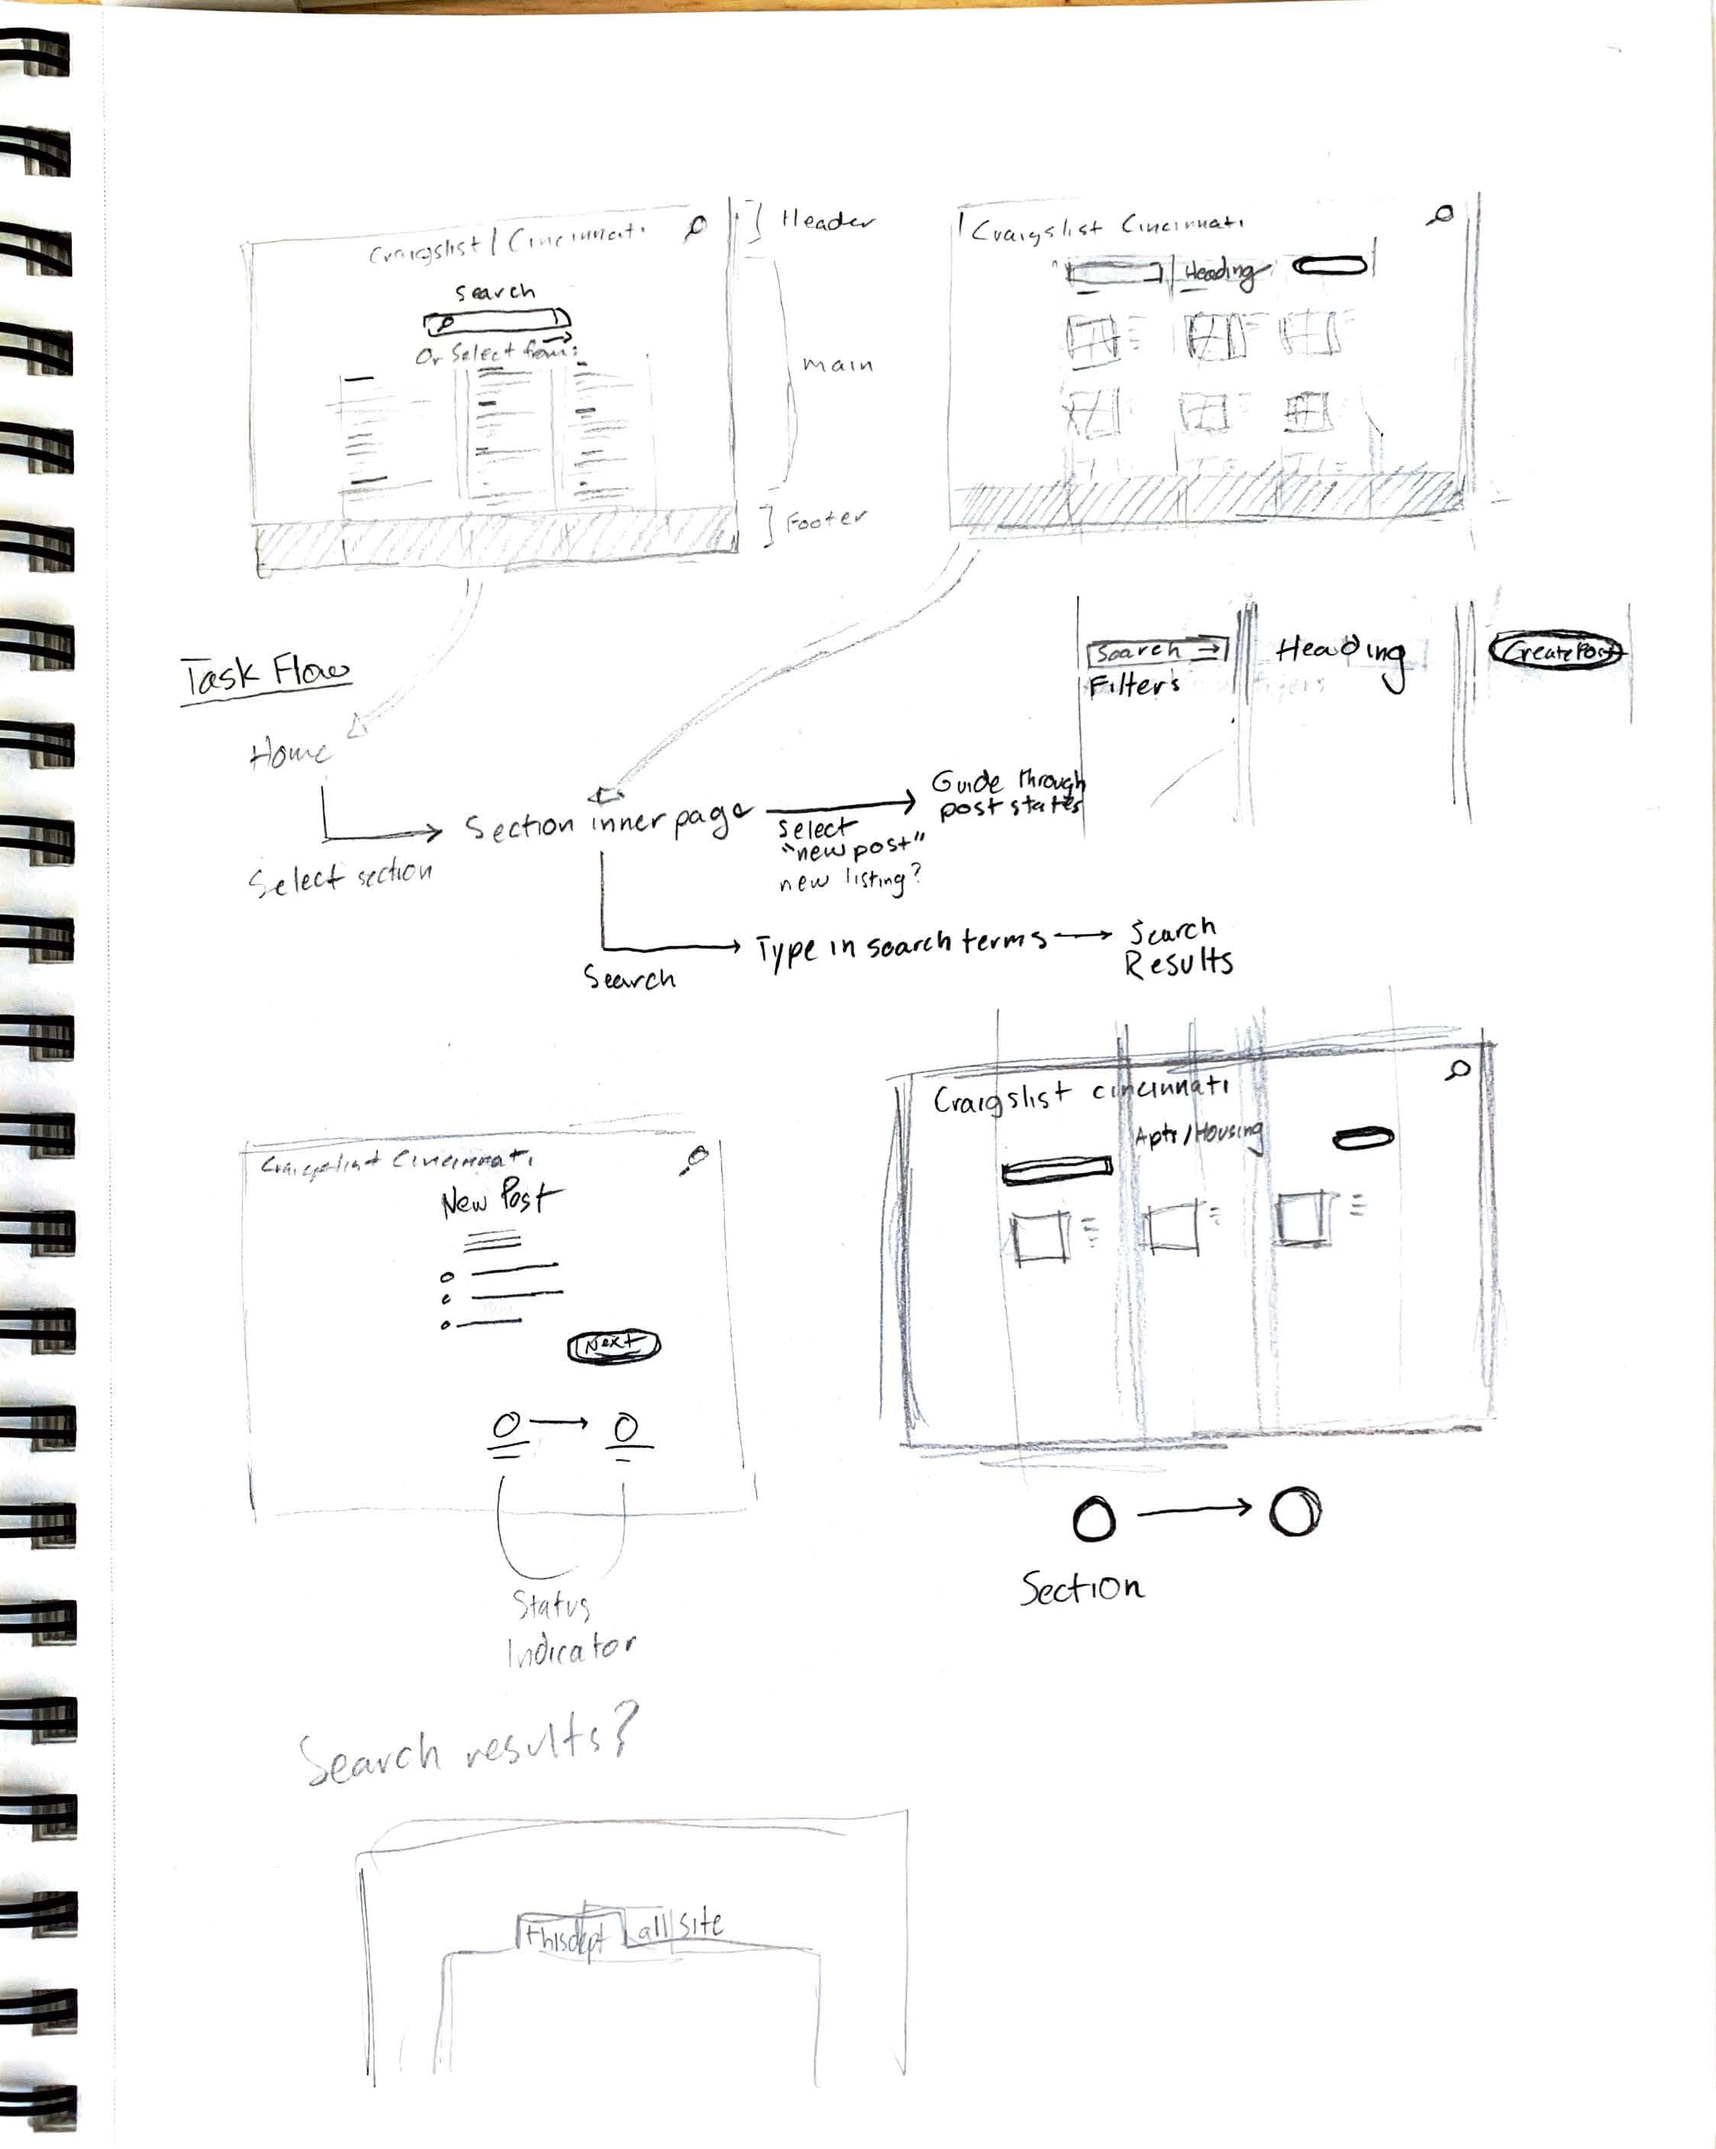
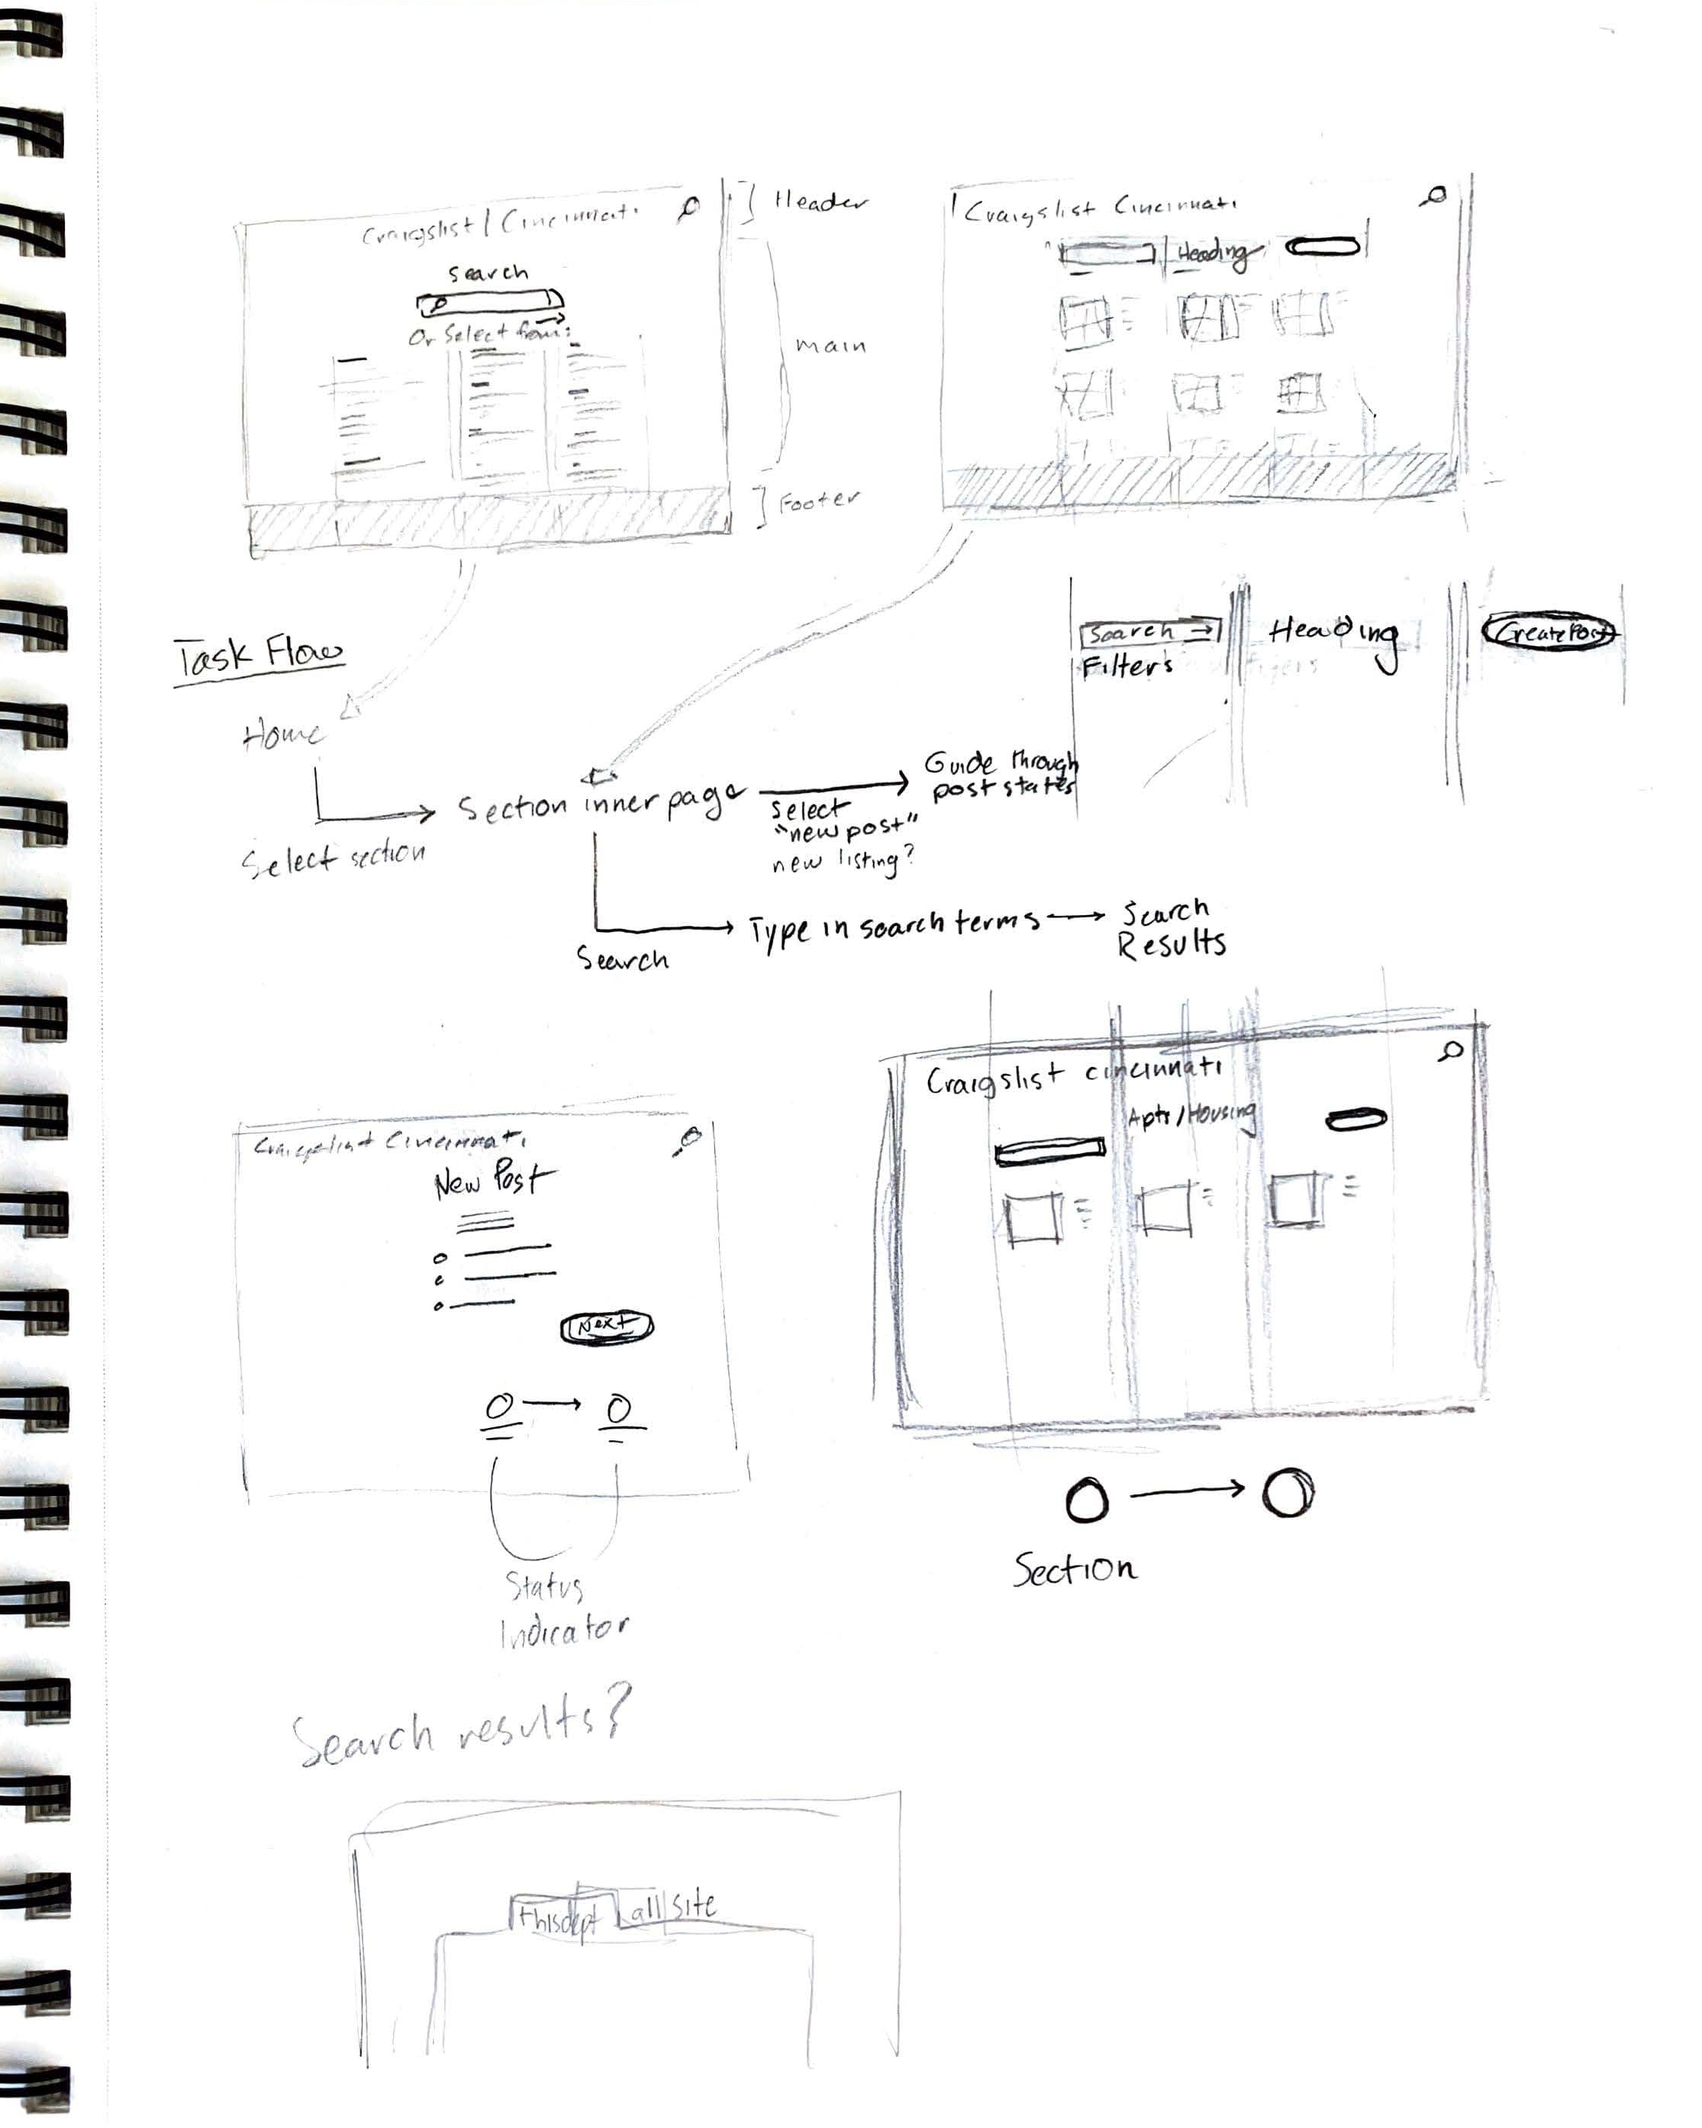
Craigslist Update

diff --git a/clist.html b/clist.html
@@ -91,29 +91,49 @@
 							<p></p>
 						</div>
 					</div>
-					<div class="row">
-						<div class="col-12">
-							<a href="resource/images/clist/process/process.png" data-lightbox="data" data-title="Process from original Craigslist site">
-								<img src="resource/images/clist/process/process.png" alt="a transformation from the original site to final">
+					<div class="row justify-content-center">
+						<div class="col-sm-6">
+							<a href="resource/images/clist/process/doc.jpg" data-lightbox="data" data-title="Task Flow Analysis for the initial site">
+								<img src="resource/images/clist/process/doc.jpg" alt="Initial sketches for the site 1" class="wi">
 							</a>
-							<hr class="mt-5">
+						</div>
+						<div class="col-sm-6">
+							<a href="resource/images/clist/process/doc2.jpg" data-lightbox="data" data-title="Task Flow Analysis for the initial site">
+								<img src="resource/images/clist/process/doc2.jpg" alt="Initial sketches for the site 2" class="wi">
+							</a>
+						</div>
+						<div class="col-sm-3 col-6">
+							<a href="resource/images/clist/process/sketches_Page_1.jpg" data-lightbox="data" data-title="Initial sketches for the site">
+								<img src="resource/images/clist/process/sketches_Page_1.jpg" alt="Initial sketches for the site 1" class="wi">
+							</a>
+						</div>
+						<div class="col-sm-3 col-6">
+							<a href="resource/images/clist/process/sketches_Page_2.jpg" data-lightbox="data" data-title="Initial sketches for the site">
+								<img src="resource/images/clist/process/sketches_Page_2.jpg" alt="Initial sketches for the site 2" class="wi">
+							</a>
+						</div>
+						<div class="col-12">
+							<a href="resource/images/clist/process/process.jpg" data-lightbox="data" data-title="Process from original Craigslist site">
+								<img src="resource/images/clist/process/process.jpg" alt="a transformation from the original site to final">
+							</a>
+							
 						</div>
 						
 						<div class="col-12">
-							<a href="resource/images/clist/process/process2.png" data-lightbox="data" data-title="Process from original Craigslist site">
-								<img src="resource/images/clist/process/process2.png" alt="a transformation from the original site to final">
+							<a href="resource/images/clist/process/process2.jpg" data-lightbox="data" data-title="Process from original Craigslist site">
+								<img src="resource/images/clist/process/process2.jpg" alt="a transformation from the original site to final">
 							</a>
-							<hr class="mt-5">
+							
 						</div>
 						<div class="col-12">
-							<a href="resource/images/clist/process/process3.png" data-lightbox="data" data-title="Process from original Craigslist site">
-								<img src="resource/images/clist/process/process3.png" alt="a transformation from the original site to final">
+							<a href="resource/images/clist/process/process3.jpg" data-lightbox="data" data-title="Process from original Craigslist site">
+								<img src="resource/images/clist/process/process3.jpg" alt="a transformation from the original site to final">
 							</a>
-							<hr class="mt-5">
+							
 						</div>
 						<div class="col-12">
-							<a href="resource/images/clist/process/process4.png" data-lightbox="data" data-title="Process from original Craigslist site">
-								<img src="resource/images/clist/process/process4.png" alt="a transformation from the original site to final">
+							<a href="resource/images/clist/process/process4.jpg" data-lightbox="data" data-title="Process from original Craigslist site">
+								<img src="resource/images/clist/process/process4.jpg" alt="a transformation from the original site to final">
 							</a>
 							
 						</div>
